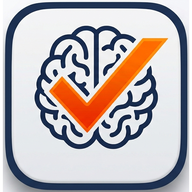
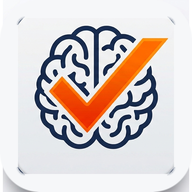
アプリアイコンの枠を除去し、テーマカラーを紫からオレンジに変更
アイコン画像に描き込まれていた紺色の縁取りを除去(favicon/apple-touch-icon/icon-192/512)。
PWA表示時に上部バーへ反映されるtheme_color(manifest.json/index.html)を紫(#6c47d9)からロゴのチェックマークに合わせたオレンジ(#e8630c)へ変更。

Claude-Session: https://claude.ai/code/session_01PV7zCP94aXeA9dqngz4e5Z

Changed region(s): [[0.0, 0.0, 1.0, 1.0]]

diff --git a/index.html b/index.html
@@ -9,7 +9,7 @@
     <title>タスクマニア</title>
     <link rel="manifest" href="%BASE_URL%manifest.json">
     <link rel="apple-touch-icon" href="%BASE_URL%apple-touch-icon.png">
-    <meta name="theme-color" content="#6c47d9">
+    <meta name="theme-color" content="#e8630c">
     <meta name="apple-mobile-web-app-capable" content="yes">
     <meta name="apple-mobile-web-app-status-bar-style" content="black-translucent">
     <meta name="apple-mobile-web-app-title" content="タスクマニア">

diff --git a/src/App.css b/src/App.css
@@ -2,8 +2,8 @@
 *, *::before, *::after { box-sizing: border-box; margin: 0; padding: 0; }
 
 :root {
-  --accent: #6c47d9;
-  --accent-hover: #5535b8;
+  --accent: #e8630c;
+  --accent-hover: #c94f00;
   --bg: #f7f7fb;
   --surface: #ffffff;
   --border: #e2e2ee;
@@ -44,7 +44,7 @@ body {
   background: var(--accent);
   color: white;
   flex-shrink: 0;
-  box-shadow: 0 2px 6px rgba(108,71,217,0.3);
+  box-shadow: 0 2px 6px rgba(232,99,12,0.3);
 }
 
 .app-title {
